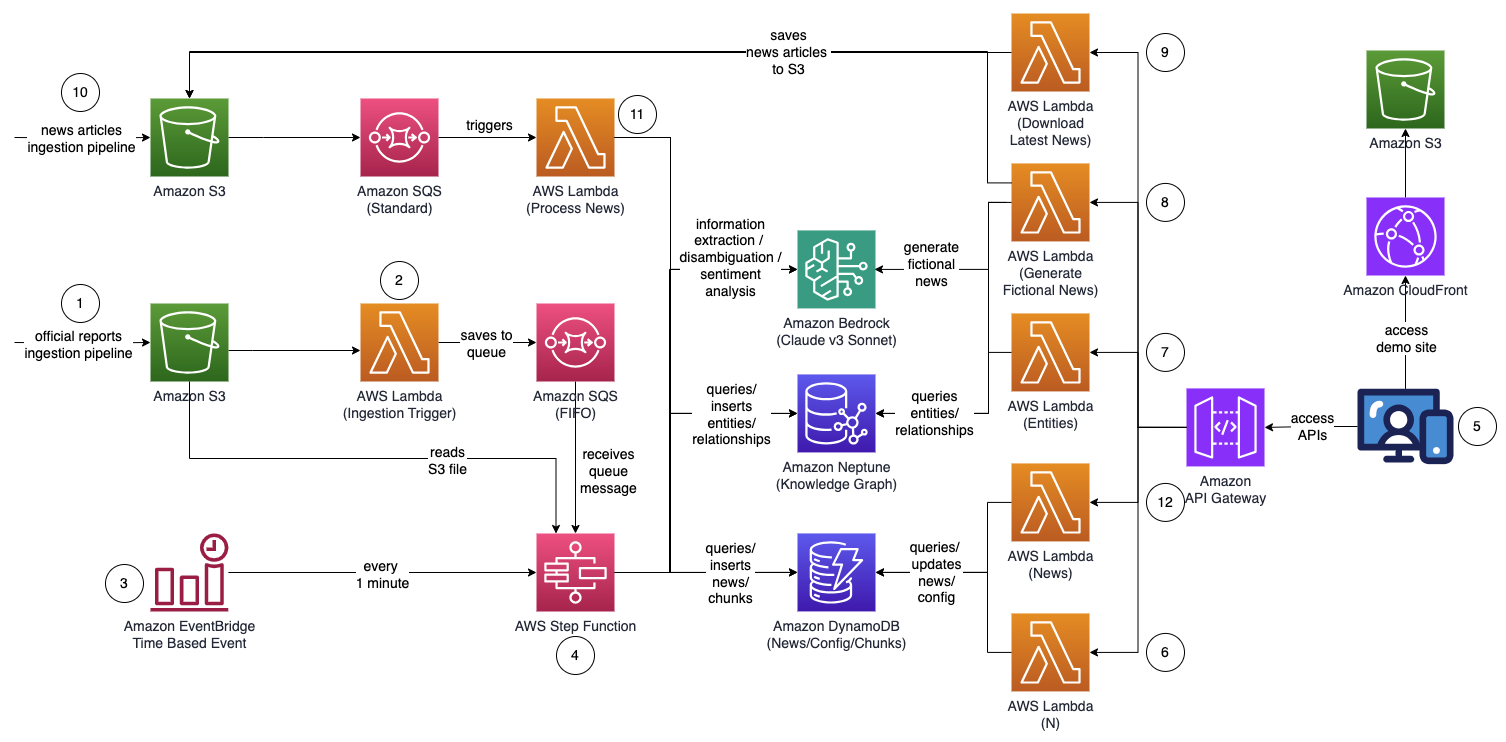
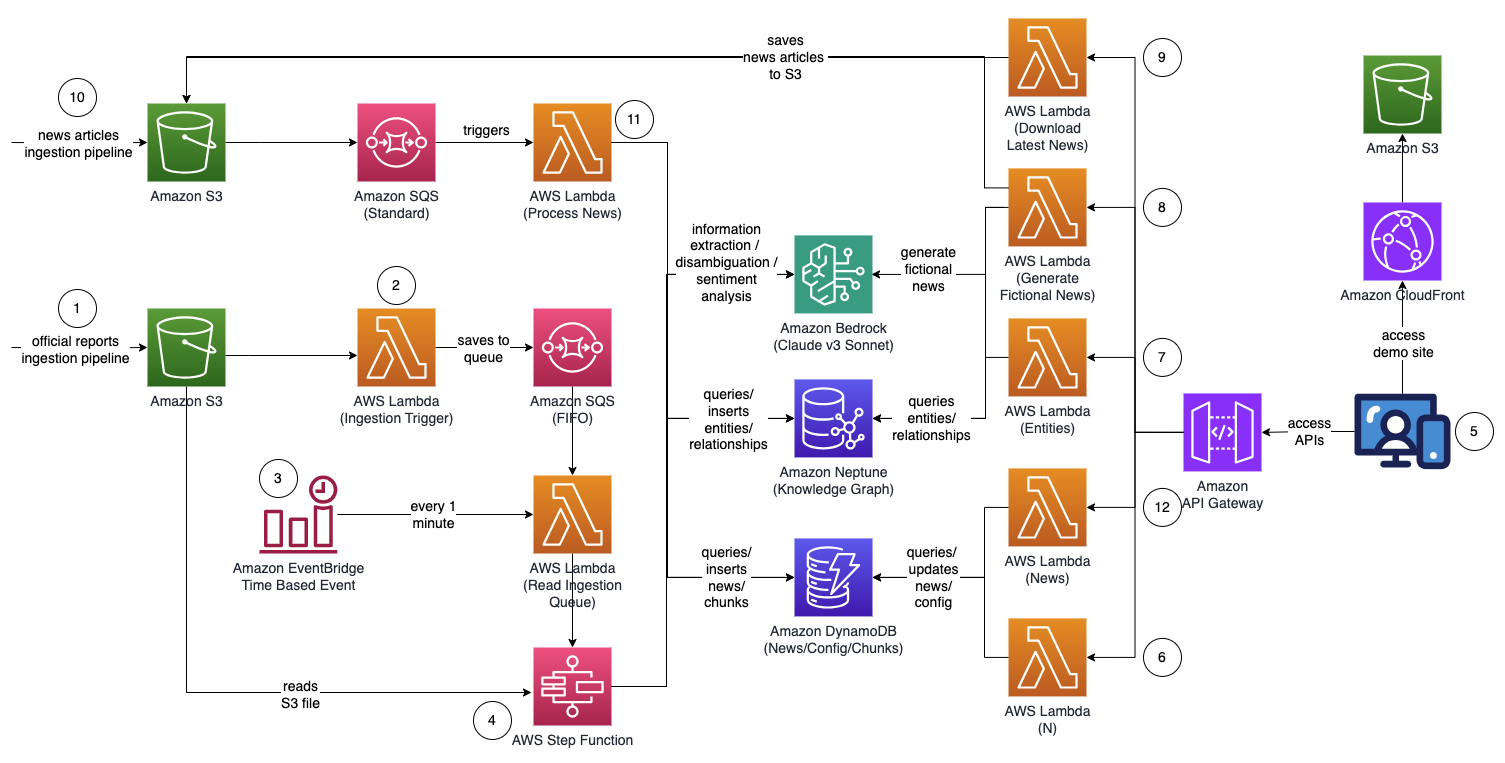
1/ added lambda to check for queue message before invoking step function. 2/ added cap to the length of chunks used for summary to min(maxSummaryChunkCount, len(chunks)-1). 3/ created utils lib to hold common func such as clean_name.  4/ added cap of 50 entities when filtering 5/ applied clean_name 

diff --git a/cdk/cdk_stack.py b/cdk/cdk_stack.py
@@ -482,6 +482,20 @@ class CdkStack(Stack):
                         )
                     ]
                 ),
+                "inline_policy_start_execution_state_machine": iam.PolicyDocument(
+                    statements=[
+                        iam.PolicyStatement(
+                            effect=iam.Effect.ALLOW,
+                            actions=[
+                                "states:StartExecution"
+                            ],
+                            resources=[
+                                f"arn:aws:states:{self.region}:{self.account}:stateMachine:{project_name}-state-machine"
+                            ]
+                        )
+                    ]
+                )
+                
             }
         )
         role_lambda.apply_removal_policy(RemovalPolicy.DESTROY)
@@ -624,6 +638,26 @@ class CdkStack(Stack):
             memory_size=1024
         )
         fn_s3_pipeline_ingestion_trigger.apply_removal_policy(RemovalPolicy.DESTROY)
+
+        # Create Lambda Functions - S3 Pipeline - Read Ingestion Queue
+        function_name = f"{project_name}-s3_pipeline-read-ingestion-queue"
+        fn_s3_pipeline_read_ingestion_queue = _lambda.Function(self, function_name,
+            function_name=function_name,
+            runtime=_lambda.Runtime.PYTHON_3_12,
+            handler="index.lambda_handler",
+            code=_lambda.Code.from_asset("./lambda-ecs/s3_pipeline/read-ingestion-queue"),
+            layers=[layer_lambda],
+            timeout=Duration.minutes(15),
+            role=role_lambda,
+            environment={
+                'QUEUE_NAME': reports_queue.queue_name,
+                'DDBTBL_PROMPTS': ddbtbl_prompts.table_name,
+                'STATE_MACHINE_ARN': f"arn:aws:states:{self.region}:{self.account}:stateMachine:{project_name}-state-machine"
+            },
+            tracing=_lambda.Tracing.ACTIVE,
+            memory_size=1024
+        )
+        fn_s3_pipeline_read_ingestion_queue.apply_removal_policy(RemovalPolicy.DESTROY)
 
         # Create Lambda Functions - S3 Pipeline - Process News
         function_name = f"{project_name}-s3_pipeline-process_news"
@@ -780,6 +814,8 @@ class CdkStack(Stack):
             memory_size=1024
         )
         fn_step_function_return_message.apply_removal_policy(RemovalPolicy.DESTROY)
+
+        
 
         
 
@@ -1295,31 +1331,24 @@ class CdkStack(Stack):
             return task  
 
         def create_state_machine_definition():
-            return sfnInvokeLambdaReceiveMessages().next(
-                sfn.Choice(self, "choice", state_name="Choice - Message Available?")
-                .when(sfn.Condition.is_present("$.Messages"),
-                    sfnPassFormatInputS3FileReceiptHandle()
-                    .next(sfnInvokeLambdaChunkDocuments())
-                    .next(sfnPassFormatInputSummary())
-                    .next(sfnMapProcessChunks()
-                          .item_processor(
-                              sfnDynamoGetItem()
-                              .next(sfnInvokeLambdaProcessChunks())
-                          )
-                    )
-                    .next(sfnInvokeLambdaConsolidateChunks())
-                    .next(sfnMapFilterRecords()
-                          .item_processor(
-                              sfnInvokeLambdaFilterRecords()
-                          )
-                    )
-                    .next(sfnInvokeLambdaInsertVerticesEdges())
-                    .next(sfnInvokeLambdaCleanup())
-                    .next(sfn.Succeed(self, "SuccessProcessCompleted", state_name="Success Process Completed"))
+            return sfnPassFormatInputS3FileReceiptHandle().next(
+                sfnInvokeLambdaChunkDocuments()
+                .next(sfnPassFormatInputSummary())
+                .next(sfnMapProcessChunks()
+                        .item_processor(
+                            sfnDynamoGetItem()
+                            .next(sfnInvokeLambdaProcessChunks())
+                        )
                 )
-                .otherwise(
-                    sfn.Succeed(self, "SuccessNothingToProcess", state_name="Success Nothing To Process")
+                .next(sfnInvokeLambdaConsolidateChunks())
+                .next(sfnMapFilterRecords()
+                        .item_processor(
+                            sfnInvokeLambdaFilterRecords()
+                        )
                 )
+                .next(sfnInvokeLambdaInsertVerticesEdges())
+                .next(sfnInvokeLambdaCleanup())
+                .next(sfn.Succeed(self, "SuccessProcessCompleted", state_name="Success Process Completed"))
             )
             
         state_machine_log_group = logs.LogGroup(
@@ -1388,7 +1417,7 @@ class CdkStack(Stack):
             self, f"{project_name}-trigger-step-function-rule",
             rule_name=f"{project_name}-trigger-step-function-rule",
             schedule=events.Schedule.rate(Duration.minutes(1)),
-            targets=[targets.SfnStateMachine(state_machine)]
+            targets=[targets.LambdaFunction(fn_s3_pipeline_read_ingestion_queue)]
         )
 
 

diff --git a/lambda-ecs/step-function/04.filter-records/index.py b/lambda-ecs/step-function/04.filter-records/index.py
@@ -11,9 +11,15 @@ from connectionsinsights.bedrock import (
     savePrompt,
     convertMessagesToTextCompletion
 )
+
+from connectionsinsights.utils import (
+    clean_name
+)
+
   
 dynamodb_resource = boto3.resource('dynamodb')
 dynamodb = boto3.client("dynamodb")
+split_json_count = 50
 
 def qb_filterCustomers(customers, main_entity_name):
     if customers.strip() == "{}":
@@ -232,8 +238,9 @@ def lambda_handler(event, context):
     if "raw_customers" == bodyType:
         response = dynamodb.get_item(TableName=dynamodb_table_name, Key={"id": {"S": jsonID}})
         raw_customers = json.loads(response["Item"]["data"]["S"])
+        raw_customers = { clean_name(key): value for key, value in raw_customers.items() } # clean key values
         filteredCustomersArray = []
-        arr_json_objects = split_json(raw_customers,100)
+        arr_json_objects = split_json(raw_customers,split_json_count)
         for obj in arr_json_objects:
             filteredCustomersArray = filteredCustomersArray + json.loads( qb_filterCustomers( json.dumps(obj), main_entity_name))
         finalCustomers = {}
@@ -255,8 +262,9 @@ def lambda_handler(event, context):
     elif "raw_suppliers_or_partners" == bodyType:
         response = dynamodb.get_item(TableName=dynamodb_table_name, Key={"id": {"S": jsonID}})
         raw_suppliers_or_partners = json.loads(response["Item"]["data"]["S"])
+        raw_suppliers_or_partners = { clean_name(key): value for key, value in raw_suppliers_or_partners.items() } # clean key values
         filteredSuppliersArray = []
-        arr_json_objects = split_json(raw_suppliers_or_partners,100)
+        arr_json_objects = split_json(raw_suppliers_or_partners,split_json_count)
         for obj in arr_json_objects:
             filteredSuppliersArray = filteredSuppliersArray + json.loads( qb_filterSuppliers( json.dumps(obj), main_entity_name))
         finalSuppliers = {}
@@ -278,7 +286,8 @@ def lambda_handler(event, context):
     elif "raw_competitors" == bodyType:
         response = dynamodb.get_item(TableName=dynamodb_table_name, Key={"id": {"S": jsonID}})
         raw_competitors = json.loads(response["Item"]["data"]["S"])
-        arr_json_objects = split_json(raw_competitors,100)
+        raw_competitors = { clean_name(key): value for key, value in raw_competitors.items() } # clean key values
+        arr_json_objects = split_json(raw_competitors,split_json_count)
         filteredCompetitorsArray = []
         for obj in arr_json_objects:
             filteredCompetitorsArray = filteredCompetitorsArray + json.loads( qb_filterCompetitors( json.dumps(obj), main_entity_name))
@@ -302,7 +311,8 @@ def lambda_handler(event, context):
     elif "raw_directors" == bodyType:
         response = dynamodb.get_item(TableName=dynamodb_table_name, Key={"id": {"S": jsonID}})
         raw_directors = json.loads(response["Item"]["data"]["S"])
-        arr_json_objects = split_json(raw_directors,100)
+        raw_directors = { clean_name(key): value for key, value in raw_directors.items() } # clean key values
+        arr_json_objects = split_json(raw_directors,split_json_count)
         filteredDirectorsArray = []
         for obj in arr_json_objects:
             filteredDirectorsArray = filteredDirectorsArray + json.loads( qb_filterDirectors( json.dumps(obj), main_entity_name))

diff --git a/lib/connectionsinsights/neptune.py b/lib/connectionsinsights/neptune.py
@@ -18,6 +18,10 @@ from connectionsinsights.bedrock import (
     disambiguate
 )
 
+from connectionsinsights.utils import (
+    clean_name
+)
+
 
 # ███    ██ ███████ ██████  ████████ ██    ██ ███    ██ ███████ 
 # ████   ██ ██      ██   ██    ██    ██    ██ ████   ██ ██      
@@ -162,18 +166,6 @@ def addOrUpdateEdge(source, edge_name, destination, edge_property_dict):
                 values = [ x.strip() for x in list(set(edge_property_dict[key].split(","))) if x not in [""]]
             edge.property( key, ",".join(values) )
         edge.next()
-
-def clean_name(name):
-    suffixes = ["CO", "INC", "LTD", "LLP", "LIMITED", "COM"]  # Add more if needed
-    prefixes = ["MR", "DR", "PROF", "MS", "MISS", "MDM", "MRS"]  # Add more if needed
-    name = name.replace(',', ' ').strip()
-    name = name.replace('.', ' ').strip()
-    
-    name_array = name.split()
-    name_array = [part for part in name_array if part.upper() not in suffixes]
-    name_array = [part for part in name_array if part.upper() not in prefixes]
-
-    return " ".join(name_array).strip()        
 
 def getAcronym(name):
     acronymArray = [word[0] for word in name.split()]

diff --git a/lib/connectionsinsights/bedrock.py b/lib/connectionsinsights/bedrock.py
@@ -7,6 +7,8 @@ import re
 import uuid
 from math import sqrt, pow
 import botocore
+from datetime import datetime
+
 
 # ██████  ███████ ██████  ██████   ██████   ██████ ██   ██ 
 # ██   ██ ██      ██   ██ ██   ██ ██    ██ ██      ██  ██  
@@ -234,6 +236,10 @@ def uppercase(data):
         return data
 
 def savePrompt(prompt, id=""):
+    current_timestamp = time.time()
+    dt_object = datetime.fromtimestamp(current_timestamp)
+    formatted_time = dt_object.strftime("%Y-%m-%d %H:%M")
+
     try:
         dynamodb = boto3.resource('dynamodb')
         table = dynamodb.Table(os.environ["DDBTBL_PROMPTS"])
@@ -241,7 +247,8 @@ def savePrompt(prompt, id=""):
             Item={
                 'id': id+str(uuid.uuid4()),
                 'prompt': prompt,
-                'ttl_timestamp': int(time.time()) + 86400
+                'timestamp': formatted_time,
+                'ttl_timestamp': int(current_timestamp) + 86400                
             }
         )
     except Exception as e:

diff --git a/lambda-ecs/s3_pipeline/read-ingestion-queue/index.py b/lambda-ecs/s3_pipeline/read-ingestion-queue/index.py
@@ -1,0 +1,29 @@
+import json
+import boto3
+import os
+
+sqs = boto3.client('sqs', region_name=os.environ["AWS_REGION"])
+queue_url = sqs.get_queue_url(QueueName=os.environ["QUEUE_NAME"])['QueueUrl']
+step_functions = boto3.client('stepfunctions', region_name=os.environ["AWS_REGION"])
+state_machine_arn = os.environ['STATE_MACHINE_ARN']
+
+def lambda_handler(event, context):
+    try:
+        response = sqs.receive_message(
+            QueueUrl=queue_url,
+            MaxNumberOfMessages=1,
+            WaitTimeSeconds=1
+        )
+        execution_input = {"Messages": response["Messages"]}
+        response = step_functions.start_execution(
+            stateMachineArn=state_machine_arn,
+            input=json.dumps(execution_input)
+        )
+    except Exception as e:
+        print(e)
+        pass # will encounter key error for "Messages" when message is in visibility timeout
+    
+    return {
+        'statusCode': 200,
+        'body': json.dumps('Success!')
+    }

diff --git a/lib/connectionsinsights/utils.py b/lib/connectionsinsights/utils.py
@@ -1,0 +1,13 @@
+
+def clean_name(name):
+    suffixes = ["CO", "INC", "LTD", "LLP", "LIMITED", "COM"]  # Add more if needed
+    prefixes = ["MR", "DR", "PROF", "MS", "MISS", "MDM", "MRS"]  # Add more if needed
+    punctuations = [",",".","-","\""] # Add more if needed
+    for punctuation in punctuations:
+        name = name.replace(punctuation, ' ').strip()
+    
+    name_array = name.split()
+    name_array = [part for part in name_array if part.upper() not in suffixes]
+    name_array = [part for part in name_array if part.upper() not in prefixes]
+
+    return " ".join(name_array).strip()   

diff --git a/lambda-ecs/step-function/01.chunk-document/index.py b/lambda-ecs/step-function/01.chunk-document/index.py
@@ -153,7 +153,7 @@ def lambda_handler(event, context):
 
     chunks = splitDocument(local_file_path)
     maxSummaryChunkCount = 40 # max number of chunks to use for summary; 1 chunk ~ 1 page
-    summary = json.loads(qb_generateDocumentSummary(chunks,maxSummaryChunkCount))
+    summary = json.loads(qb_generateDocumentSummary(chunks,min(maxSummaryChunkCount,len(chunks)-1)))
     summary["MAIN_ENTITY"]["ATTRIBUTES"] = summary["MAIN_ENTITY"]["ATTRIBUTES"] + [{ "SOURCE":  S3_KEY.split("/")[-1].upper() }]
     
     #make a shorter copy of summary json object for use in process chunks only

diff --git a/README.md b/README.md
@@ -23,17 +23,16 @@ Such second or third-order order impact are difficult to identify and even harde
     * Note that the reports used should be officially published reports to minimize the inclusion of inaccurate data into your knowledge graph (as opposed to news/tabloids).
 2. S3 event notification triggers an AWS Lambda function which sends the S3 bucket/file name to an Amazon Simple Queue Service Queue (FIFO).
     * The use of FIFO queue is to ensure that the report ingestion process is performed sequentially to reduce the likelihood of introducing duplicate data into your knowledge graph.
-3. An Amazon EventBridge time based event runs every minute to start the execution of an AWS Step Function asynchronously.
+3. An Amazon EventBridge time based event runs every minute to invoke an AWS Lambda function.  The function will retrieve the next available queue message from SQS and start the execution of an AWS Step Function asynchronously.
 4. A step function state machine executes through a series of tasks to process the uploaded document by extracting out key information and inserting them into your knowledge graph.
     * Tasks
-        1. Receives queue message from SQS.        
-        2. Downloads proxy/annual/10k report file (PDF) from S3 and splits it into multiple smaller text chunks (~1000 words) for processing.  Store the text chunks in Amazon DynamoDB.
-        3. Using Anthropic’s Claude v3 Sonnet on Amazon Bedrock, process the first few text chunks to determine the main entity that the report is referring to, together with relevant attributes (e.g. industry).
-        4. Retrieves the text chunks from DynamoDB and for each text chunk, invokes a lambda function to extract out entities (company/person), and its relationship (customer/supplier/partner/competitor/director) to the main entity using Amazon Bedrock.
-        5. Consolidate all extracted information
-        6. Filters out noise / irrelevant entities (i.e. generic terms such as "consumers") using Amazon Bedrock.
-        7. Use Amazon Bedrock to perform disambiguation by reasoning using the extracted information against the list of similar entities from the knowledge graph.  If the entity does not exist, insert it.  Otherwise, use the entity that already exists in the knowledge graph. Inserts all relationships extracted.
-        8. Perform clean up by deleting the SQS queue message & the S3 file.
+        1. Downloads proxy/annual/10k report file (PDF) from S3 and splits it into multiple smaller text chunks (~1000 words) for processing.  Store the text chunks in Amazon DynamoDB.
+        2. Using Anthropic’s Claude v3 Sonnet on Amazon Bedrock, process the first few text chunks to determine the main entity that the report is referring to, together with relevant attributes (e.g. industry).
+        3. Retrieves the text chunks from DynamoDB and for each text chunk, invokes a lambda function to extract out entities (company/person), and its relationship (customer/supplier/partner/competitor/director) to the main entity using Amazon Bedrock.
+        4. Consolidate all extracted information
+        5. Filters out noise / irrelevant entities (i.e. generic terms such as "consumers") using Amazon Bedrock.
+        6. Use Amazon Bedrock to perform disambiguation by reasoning using the extracted information against the list of similar entities from the knowledge graph.  If the entity does not exist, insert it.  Otherwise, use the entity that already exists in the knowledge graph. Inserts all relationships extracted.
+        7. Perform clean up by deleting the SQS queue message & the S3 file.
     * Once this step completes, your knowledge graph is updated and ready to use.
 5. A user accesses a React-based web application to view the news articles which are enriched with entity/sentiment/connection path information.
     * URL for the web application can be copied from [CloudFormation console - webapp stack](https://us-east-1.console.aws.amazon.com/cloudformation/home) output - "WebApplicationURL"
